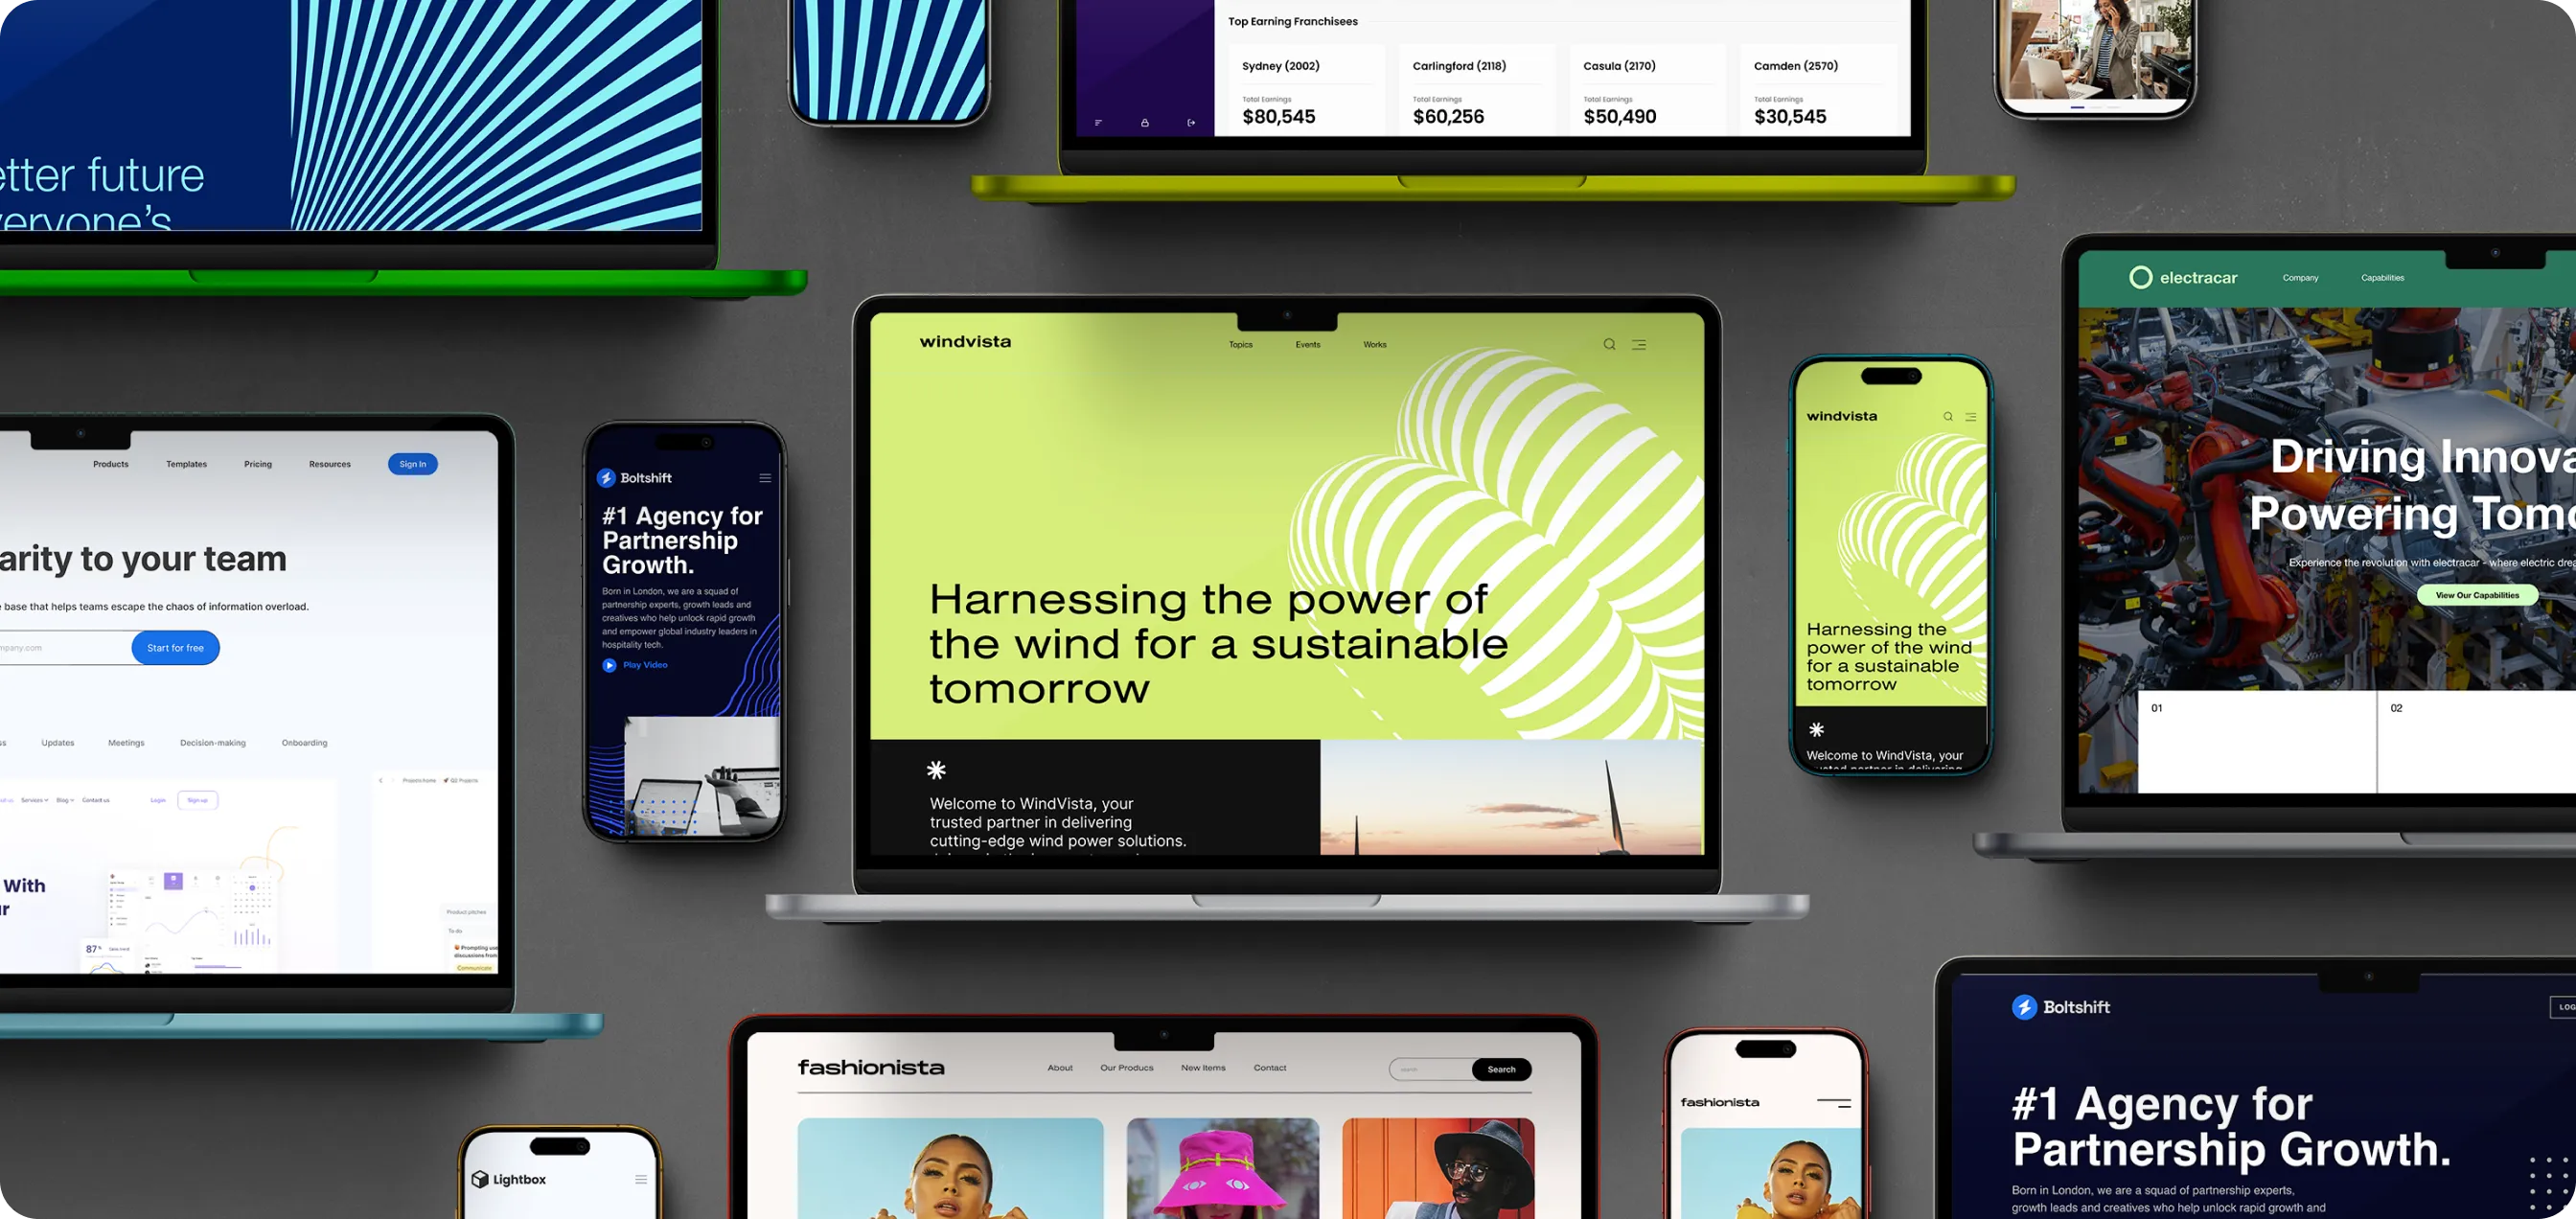
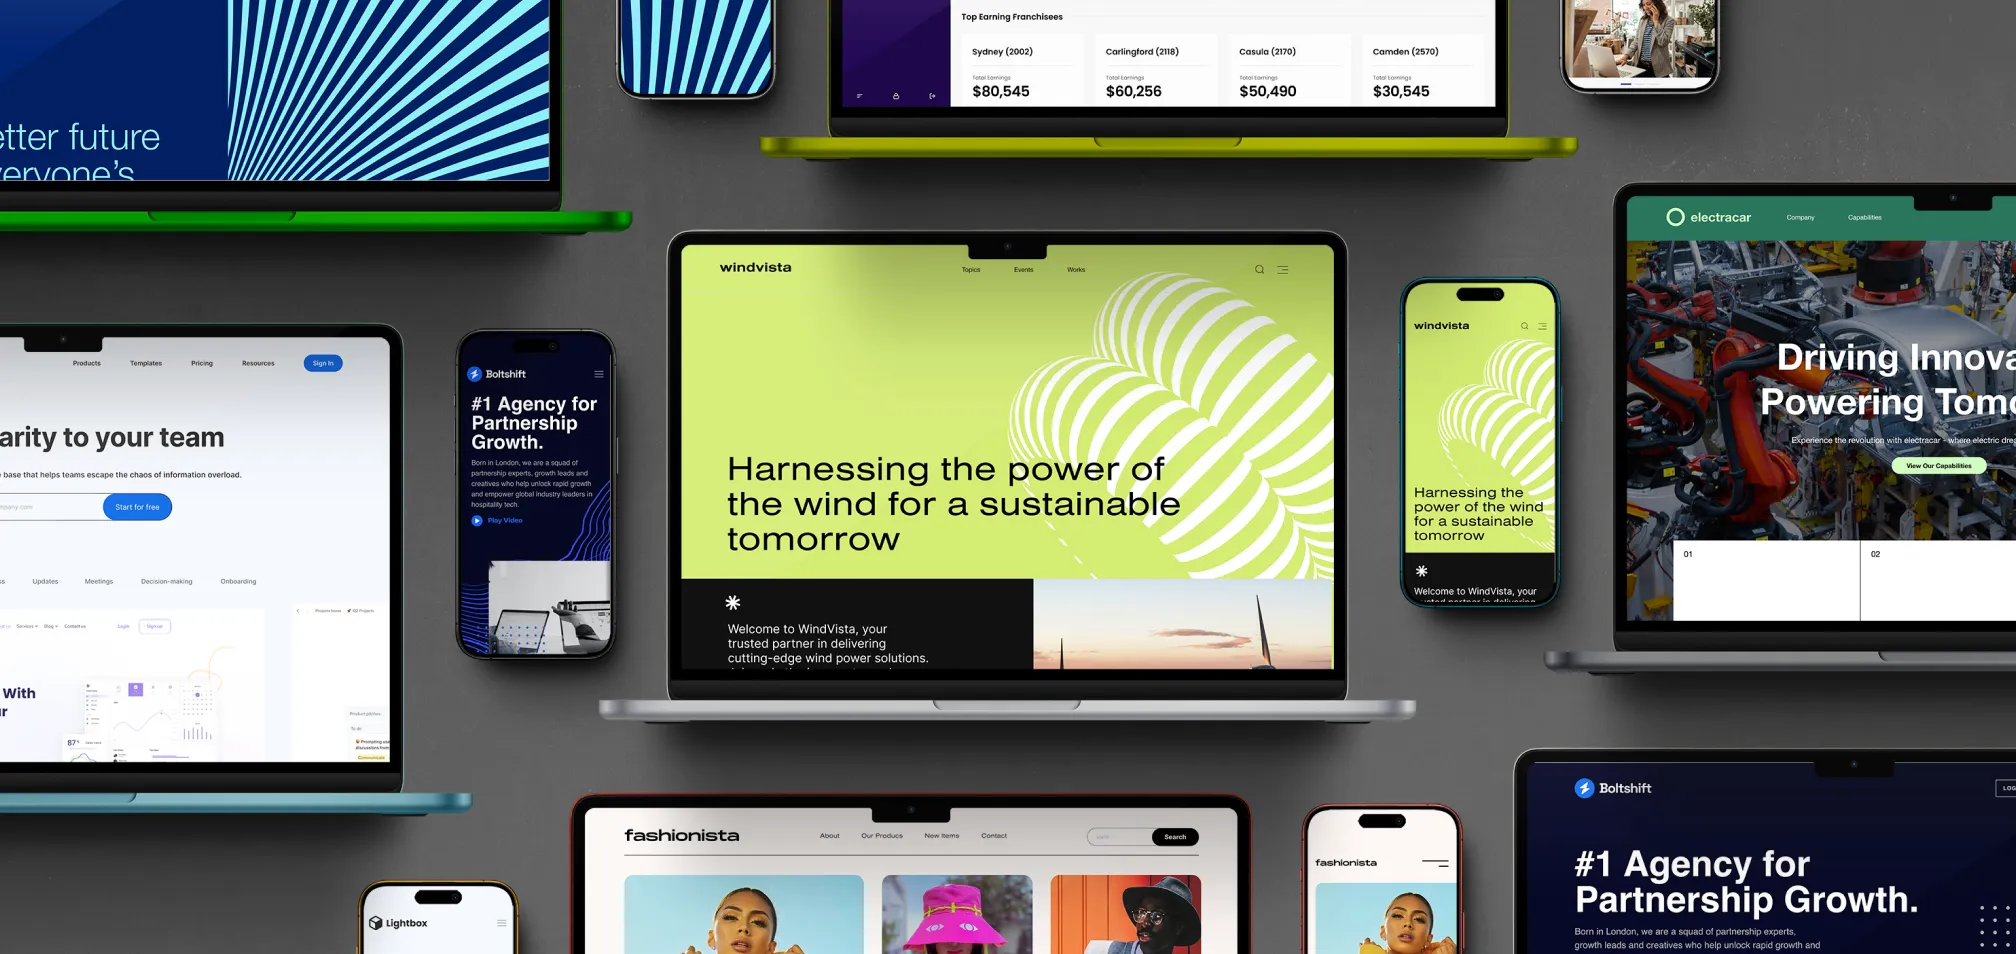
self qa and design qa fixes

diff --git a/modules/website/public/assets/styles/default.css b/modules/website/public/assets/styles/default.css
@@ -165,7 +165,7 @@ a.color-main:hover,
 
 /* a:visited,
 .body-link:visited {
-    color: var(--color-ui-06);
+    color: var(--color-ui-06); to review
 } */
 
 a.font-color-head:hover,
@@ -243,13 +243,13 @@ h4,
 }
 h5,
 .heading-5 {
-    color: var(--font-color-head, #05051D);
-    font-family: var(--font-family-01, "DM Sans");
-    font-size: 24px;
-    font-style: normal;
-    font-weight: 700;
-    line-height: 130%; 
-    letter-spacing: 0.24px;
+    color: var(--font-color-head, #05051D) !important;
+    font-family: var(--font-family-01, "DM Sans") !important;
+    font-size: 24px !important;
+    font-style: normal !important;
+    font-weight: 700 !important;
+    line-height: 130% !important; 
+    letter-spacing: 0.24px !important;
 }
 
 h6,
@@ -261,6 +261,29 @@ h6,
     font-weight: 700;
     line-height: 130%; 
     letter-spacing: 0.16px;
+}
+
+
+img {
+    width: 100%;
+}
+
+.image-d {
+    display: block;
+}
+
+.image-m {
+    display: none;
+}
+
+@media screen and (max-width: 639px) {  
+    .image-d {
+        display: none;
+    }
+
+    .image-m {
+        display: block;
+    }
 }
 
 
@@ -1810,6 +1833,11 @@ ins-tag span.ins-tag {
     height: 56px;
 }
 
+.logo {
+    width: auto !important;
+    max-height: 56px !important;
+}
+
 .top-bar,
 .header-top-bar {
     background-color: var(--color-ui-01);
@@ -2084,6 +2112,12 @@ ins-tag span.ins-tag {
     border-radius: 4px;
 }
 
+#main-header .mobile-menu-toggle #mobile-menu-btn { 
+    background: rgba(255, 255, 255, 0.06);
+    padding: 8px;
+    border-radius: 4px;
+}
+
 #main-header.light-header {
     background-color: #fff !important;
 }
@@ -2129,6 +2163,7 @@ ins-tag span.ins-tag {
     font-size: 14px;
     margin-right: 24px;
 }
+
 
 
 
@@ -2758,6 +2793,16 @@ footer .menu a {
 .hero-home-banner {
     background: var(--color-bg1, #05051D);
     height: 800px;
+    position: relative;
+    overflow: hidden;
+}
+
+.hero-bg {
+    position: absolute;
+    object-fit: fill;
+    z-index: 0;
+    height: 100%;
+    bottom: -150px;
 }
 
 .hero-home-banner .hero-main-text {
@@ -2801,13 +2846,16 @@ footer .menu a {
 .hero-banner-img {
     position: relative;
     z-index: 2;
-    /* bottom: 300px; */
     margin: -400px auto 40px;
     display: block;
 }
 
 .hero-banner-img + * {
     margin-top: 0; 
+}
+
+.hero-banner-img img {
+    border-radius: 20px;
 }
 
 
@@ -2835,6 +2883,7 @@ footer .menu a {
     .hero-banner-img img {
         width: 100%;
         height: 250px;
+        object-fit: cover;
     }
 
     .hero-spacer {
@@ -2876,8 +2925,6 @@ footer .menu a {
         gap: 40px;
     }
 }
-
-
 
 /********** [Home Page - Adaptive Section] **********/
 
@@ -2993,7 +3040,6 @@ footer .menu a {
         width: 100%;
     }
 }
-
 
 /********** [Unlock Efficiency Section] **********/
 .unlock-efficiency-section {
@@ -3253,6 +3299,26 @@ footer .menu a {
 .our-team-card p{
     font-size: 14px;
     font-weight: 400;
+}
+
+.support-heading {
+    color: var(--font-color-head, #05051D);
+    font-family: var(--font-family-01, "DM Sans");
+    font-size: 16px;
+    font-style: normal;
+    font-weight: 700;
+    line-height: 130%;
+    letter-spacing: 0.16px;
+}
+
+.our-team-name {
+    color: var(--font-color-head, #05051D);
+    font-family: var(--font-family-01, "DM Sans");
+    font-size: 24px;
+    font-style: normal;
+    font-weight: 700;
+    line-height: 130%;
+    letter-spacing: 0.24px;
 }
 
 @media screen and (max-width: 639px) { 